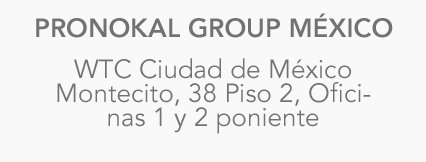
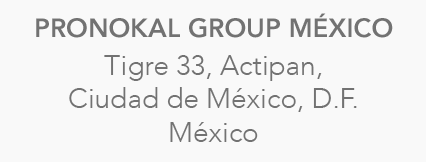
Cambios regionales

Changed region(s): [[0.1221, 0.3395, 0.885, 0.8951]]

diff --git a/Pronokal/testimoniosViewController.m b/Pronokal/testimoniosViewController.m
@@ -26,7 +26,7 @@
 -(IBAction)play:(id)sender{
     
     
-    NSURL *movieURL = [NSURL URLWithString:@"http://prepronokalgroupappcom.hostings.nexica.net/pnkv/testimonio1.mp4"];  // sample url
+    NSURL *movieURL = [NSURL URLWithString:@"http://www.pronokalgroupapp.com/pnkv/testimonio1.mp4"];  // sample url
     MPMoviePlayerViewController *movieController = [[MPMoviePlayerViewController alloc] initWithContentURL:movieURL];
     
     // Logic for play movie in landscape
@@ -48,7 +48,7 @@
    // NSString *stringPath=[[NSBundle mainBundle]pathForResource:@"virginiaytoni" ofType:@"mp4"];
   
     /*
-    NSURL *url = [NSURL URLWithString:@"http://prepronokalgroupappcom.hostings.nexica.net/pnkv/testimonio1.mp4"];
+    NSURL *url = [NSURL URLWithString:@"http://www.pronokalgroupapp.com/pnkv/testimonio1.mp4"];
    
     mpc=[[MPMoviePlayerController alloc] initWithContentURL:url];
     [mpc setMovieSourceType:MPMovieSourceTypeFile];
@@ -66,7 +66,7 @@
 -(IBAction)play2:(id)sender{
     
     
-    NSURL *movieURL = [NSURL URLWithString:@"http://prepronokalgroupappcom.hostings.nexica.net/pnkv/testimonio2.mp4"];  // sample url
+    NSURL *movieURL = [NSURL URLWithString:@"http://www.pronokalgroupapp.com/pnkv/testimonio2.mp4"];  // sample url
     MPMoviePlayerViewController *movieController = [[MPMoviePlayerViewController alloc] initWithContentURL:movieURL];
     
     // Logic for play movie in landscape
@@ -82,7 +82,7 @@
     
     /*
     //NSString *stringPath2=[[NSBundle mainBundle]pathForResource:@"ingridconsuelo" ofType:@"mp4"];
-    NSURL *url2 = [NSURL URLWithString:@"http://prepronokalgroupappcom.hostings.nexica.net/pnkv/testimonio2.mp4"];
+    NSURL *url2 = [NSURL URLWithString:@"http://www.pronokalgroupapp.com/pnkv/testimonio2.mp4"];
     
     mpc2=[[MPMoviePlayerController alloc] initWithContentURL:url2];
     [mpc2 setMovieSourceType:MPMovieSourceTypeFile];
@@ -96,7 +96,7 @@
 
 -(IBAction)play3:(id)sender{
     
-    NSURL *movieURL = [NSURL URLWithString:@"http://prepronokalgroupappcom.hostings.nexica.net/pnkv/testimonio3.mp4"];  // sample url
+    NSURL *movieURL = [NSURL URLWithString:@"http://www.pronokalgroupapp.com/pnkv/testimonio3.mp4"];  // sample url
     MPMoviePlayerViewController *movieController = [[MPMoviePlayerViewController alloc] initWithContentURL:movieURL];
     
     // Logic for play movie in landscape
@@ -112,7 +112,7 @@
     
     /*
    // NSString *stringPath3=[[NSBundle mainBundle]pathForResource:@"anamarta" ofType:@"mp4"];
-    NSURL *url3 = [NSURL URLWithString:@"http://prepronokalgroupappcom.hostings.nexica.net/pnkv/testimonio3.mp4"];
+    NSURL *url3 = [NSURL URLWithString:@"http://www.pronokalgroupapp.com/pnkv/testimonio3.mp4"];
     
     mpc3=[[MPMoviePlayerController alloc] initWithContentURL:url3];
     [mpc3 setMovieSourceType:MPMovieSourceTypeFile];
@@ -126,7 +126,7 @@
 
 -(IBAction)play4:(id)sender{
     
-    NSURL *movieURL = [NSURL URLWithString:@"http://prepronokalgroupappcom.hostings.nexica.net/pnkv/testimonio4.mp4"];  // sample url
+    NSURL *movieURL = [NSURL URLWithString:@"http://www.pronokalgroupapp.com/pnkv/testimonio4.mp4"];  // sample url
     MPMoviePlayerViewController *movieController = [[MPMoviePlayerViewController alloc] initWithContentURL:movieURL];
     
     // Logic for play movie in landscape
@@ -141,7 +141,7 @@
     
     /*
     //NSString *stringPath4=[[NSBundle mainBundle]pathForResource:@"virginiaytoni" ofType:@"mp4"];
-    NSURL *url4 = [NSURL URLWithString:@"http://prepronokalgroupappcom.hostings.nexica.net/pnkv/testimonio4.mp4"];
+    NSURL *url4 = [NSURL URLWithString:@"http://www.pronokalgroupapp.com/pnkv/testimonio4.mp4"];
     
     mpc4=[[MPMoviePlayerController alloc] initWithContentURL:url4];
 

diff --git a/Pronokal/PesoViewController.m b/Pronokal/PesoViewController.m
@@ -165,10 +165,10 @@
     NSString *spais=countryCode;
     
     
-    NSString *website = [NSString stringWithFormat:@"http://prepronokalgroupappcom.hostings.nexica.net/pnkv/svg/chart.php?sexo=m&altura=%.1f&peso=%.1f&edad=%.f&pais=%@", saltura, speso, sedad, spais];
+    NSString *website = [NSString stringWithFormat:@"http://www.pronokalgroupapp.com/pnkv/svg/chart.php?sexo=m&altura=%.1f&peso=%.1f&edad=%.f&pais=%@", saltura, speso, sedad, spais];
     //urlGrafica.text=website;
     
-    //NSString *website = @"http://prepronokalgroupappcom.hostings.nexica.net/pnkv/svg/chart.php?sexo=m&altura=170&peso=80&edad=33&&pais=countryCode";
+    //NSString *website = @"http://www.pronokalgroupapp.com/pnkv/svg/chart.php?sexo=m&altura=170&peso=80&edad=33&&pais=countryCode";
     NSURL *url = [NSURL URLWithString:website];
     NSURLRequest *request = [NSURLRequest requestWithURL:url];
     
@@ -350,10 +350,10 @@
     
     
     
-    NSString *website = [NSString stringWithFormat:@"http://prepronokalgroupappcom.hostings.nexica.net/pnkv/svg/chart.php?sexo=h&altura=%.1f&peso=%.1f&edad=%.f&pais=%@", saltura, speso, sedad, spais];
+    NSString *website = [NSString stringWithFormat:@"http://www.pronokalgroupapp.com/pnkv/svg/chart.php?sexo=h&altura=%.1f&peso=%.1f&edad=%.f&pais=%@", saltura, speso, sedad, spais];
     //urlGrafica.text=website;
     
-    //NSString *website = @"http://prepronokalgroupappcom.hostings.nexica.net/pnkv/svg/chart.php?sexo=m&altura=170&peso=80&edad=33";
+    //NSString *website = @"http://www.pronokalgroupapp.com/pnkv/svg/chart.php?sexo=m&altura=170&peso=80&edad=33";
     NSURL *url = [NSURL URLWithString:website];
     NSURLRequest *request = [NSURLRequest requestWithURL:url];
     

diff --git a/Pronokal/Actividad1ViewController.m b/Pronokal/Actividad1ViewController.m
@@ -19,7 +19,7 @@
 
 -(IBAction)play:(id)sender{
     
-    NSURL *movieURL = [NSURL URLWithString:@"http://prepronokalgroupappcom.hostings.nexica.net/pnkv/actividadfisica.mp4"];  // sample url
+    NSURL *movieURL = [NSURL URLWithString:@"http://www.pronokalgroupapp.com/pnkv/actividadfisica.mp4"];  // sample url
     MPMoviePlayerViewController *movieController = [[MPMoviePlayerViewController alloc] initWithContentURL:movieURL];
     
     // Logic for play movie in landscape
@@ -36,7 +36,7 @@
     
     // NSString *stringPath=[[NSBundle mainBundle]pathForResource:@"virginiaytoni" ofType:@"mp4"];
     
-    NSURL *url = [NSURL URLWithString:@"http://prepronokalgroupappcom.hostings.nexica.net/pnkv/actividadfisica.mp4"];
+    NSURL *url = [NSURL URLWithString:@"http://www.pronokalgroupapp.com/pnkv/actividadfisica.mp4"];
     
     mpc=[[MPMoviePlayerController alloc] initWithContentURL:url];
     [mpc setMovieSourceType:MPMovieSourceTypeFile];

diff --git a/Pronokal/Control1ViewController.m b/Pronokal/Control1ViewController.m
@@ -19,7 +19,7 @@
 
 -(IBAction)play:(id)sender{
     
-    NSURL *movieURL = [NSURL URLWithString:@"http://prepronokalgroupappcom.hostings.nexica.net/pnkv/controlmedico.mp4"];  // sample url
+    NSURL *movieURL = [NSURL URLWithString:@"http://www.pronokalgroupapp.com/pnkv/controlmedico.mp4"];  // sample url
     MPMoviePlayerViewController *movieController = [[MPMoviePlayerViewController alloc] initWithContentURL:movieURL];
     
     // Logic for play movie in landscape
@@ -35,7 +35,7 @@
     /*
     // NSString *stringPath=[[NSBundle mainBundle]pathForResource:@"virginiaytoni" ofType:@"mp4"];
     
-    NSURL *url = [NSURL URLWithString:@"http://prepronokalgroupappcom.hostings.nexica.net/pnkv/controlmedico.mp4"];
+    NSURL *url = [NSURL URLWithString:@"http://www.pronokalgroupapp.com/pnkv/controlmedico.mp4"];
     
     mpc=[[MPMoviePlayerController alloc] initWithContentURL:url];
     [mpc setMovieSourceType:MPMovieSourceTypeFile];

diff --git a/Pronokal/NutricionViewController.m b/Pronokal/NutricionViewController.m
@@ -19,7 +19,7 @@
 
 -(IBAction)play:(id)sender{
     
-    NSURL *movieURL = [NSURL URLWithString:@"http://prepronokalgroupappcom.hostings.nexica.net/pnkv/nutricion.mp4"];  // sample url
+    NSURL *movieURL = [NSURL URLWithString:@"http://www.pronokalgroupapp.com/pnkv/nutricion.mp4"];  // sample url
     MPMoviePlayerViewController *movieController = [[MPMoviePlayerViewController alloc] initWithContentURL:movieURL];
     
     // Logic for play movie in landscape
@@ -35,7 +35,7 @@
     /*
     // NSString *stringPath=[[NSBundle mainBundle]pathForResource:@"virginiaytoni" ofType:@"mp4"];
     
-    NSURL *url = [NSURL URLWithString:@"http://prepronokalgroupappcom.hostings.nexica.net/pnkv/nutricion.mp4"];
+    NSURL *url = [NSURL URLWithString:@"http://www.pronokalgroupapp.com/pnkv/nutricion.mp4"];
     
     mpc=[[MPMoviePlayerController alloc] initWithContentURL:url];
     [mpc setMovieSourceType:MPMovieSourceTypeFile];

diff --git a/Pronokal/Coaching1ViewController.m b/Pronokal/Coaching1ViewController.m
@@ -21,7 +21,7 @@
     
     // NSString *stringPath=[[NSBundle mainBundle]pathForResource:@"virginiaytoni" ofType:@"mp4"];
     
-    NSURL *url = [NSURL URLWithString:@"http://prepronokalgroupappcom.hostings.nexica.net/pnkv/apoyo.mp4"];
+    NSURL *url = [NSURL URLWithString:@"http://www.pronokalgroupapp.com/pnkv/apoyo.mp4"];
     
     mpc=[[MPMoviePlayerController alloc] initWithContentURL:url];
     [mpc setMovieSourceType:MPMovieSourceTypeFile];

diff --git a/Pronokal/ContactoViewController.m b/Pronokal/ContactoViewController.m
@@ -72,7 +72,7 @@
         NSLog(@"REPUBLICA DOM");
     }
     else if ([countryCode isEqualToString:@"MX"]){
-        [self openMapToLatitude:19.393664	 longitude:-99.1767865];
+        [self openMapToLatitude:19.3696971	 longitude:-99.1798991];
         NSLog(@"MEXICO");
     }
 
